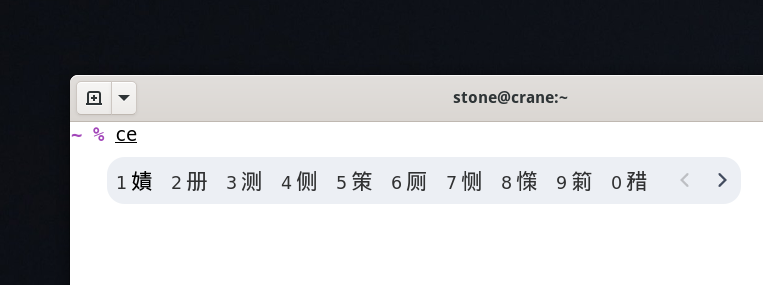
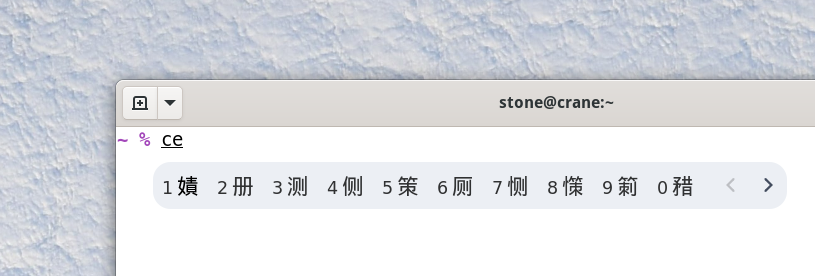
add readme

diff --git a/nord-theme/README.md b/nord-theme/README.md
@@ -1,0 +1,20 @@
+# Nord Ibus Theme
+
+dsss by nord color theme [Nord Theme](https://www.nordtheme.com/docs/colors-and-palettes).
+
+Credit to Hollow Man([@HollowMan6](https://github.com/HollowMan6)) for the ibus theme extention..
+
+## Example
+
+**Dark**:
+
+![](img/polar-night-dark.png)
+
+**Light**:
+
+![](img/snow-storm-light.png)
+
+## Content
+
+- [Snow Storm Light](snow-storm-light.css) <font color=#d8dee9>#1A5FB4</font>
+- [Polar Night Dark](polar-night-dark.css) <font color=#3b4252>#3b4252</font>
